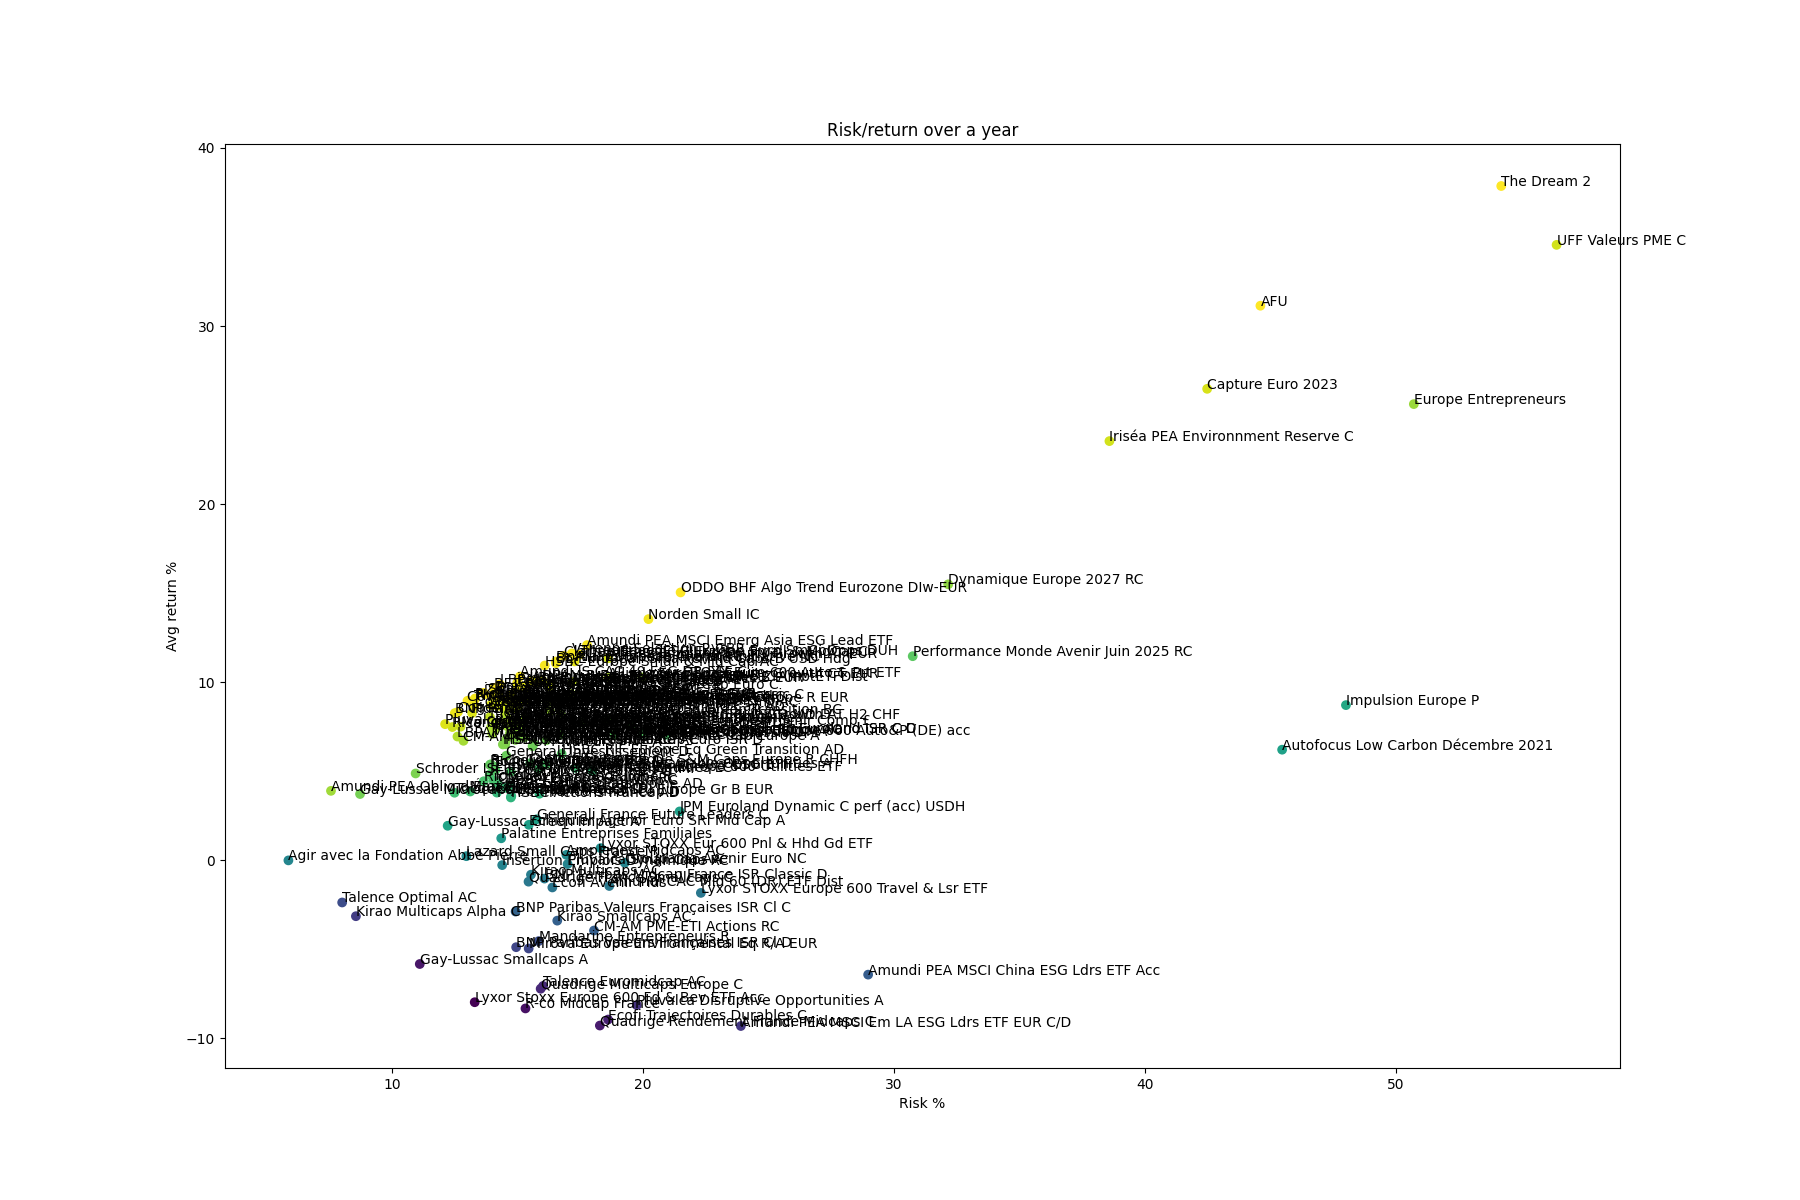
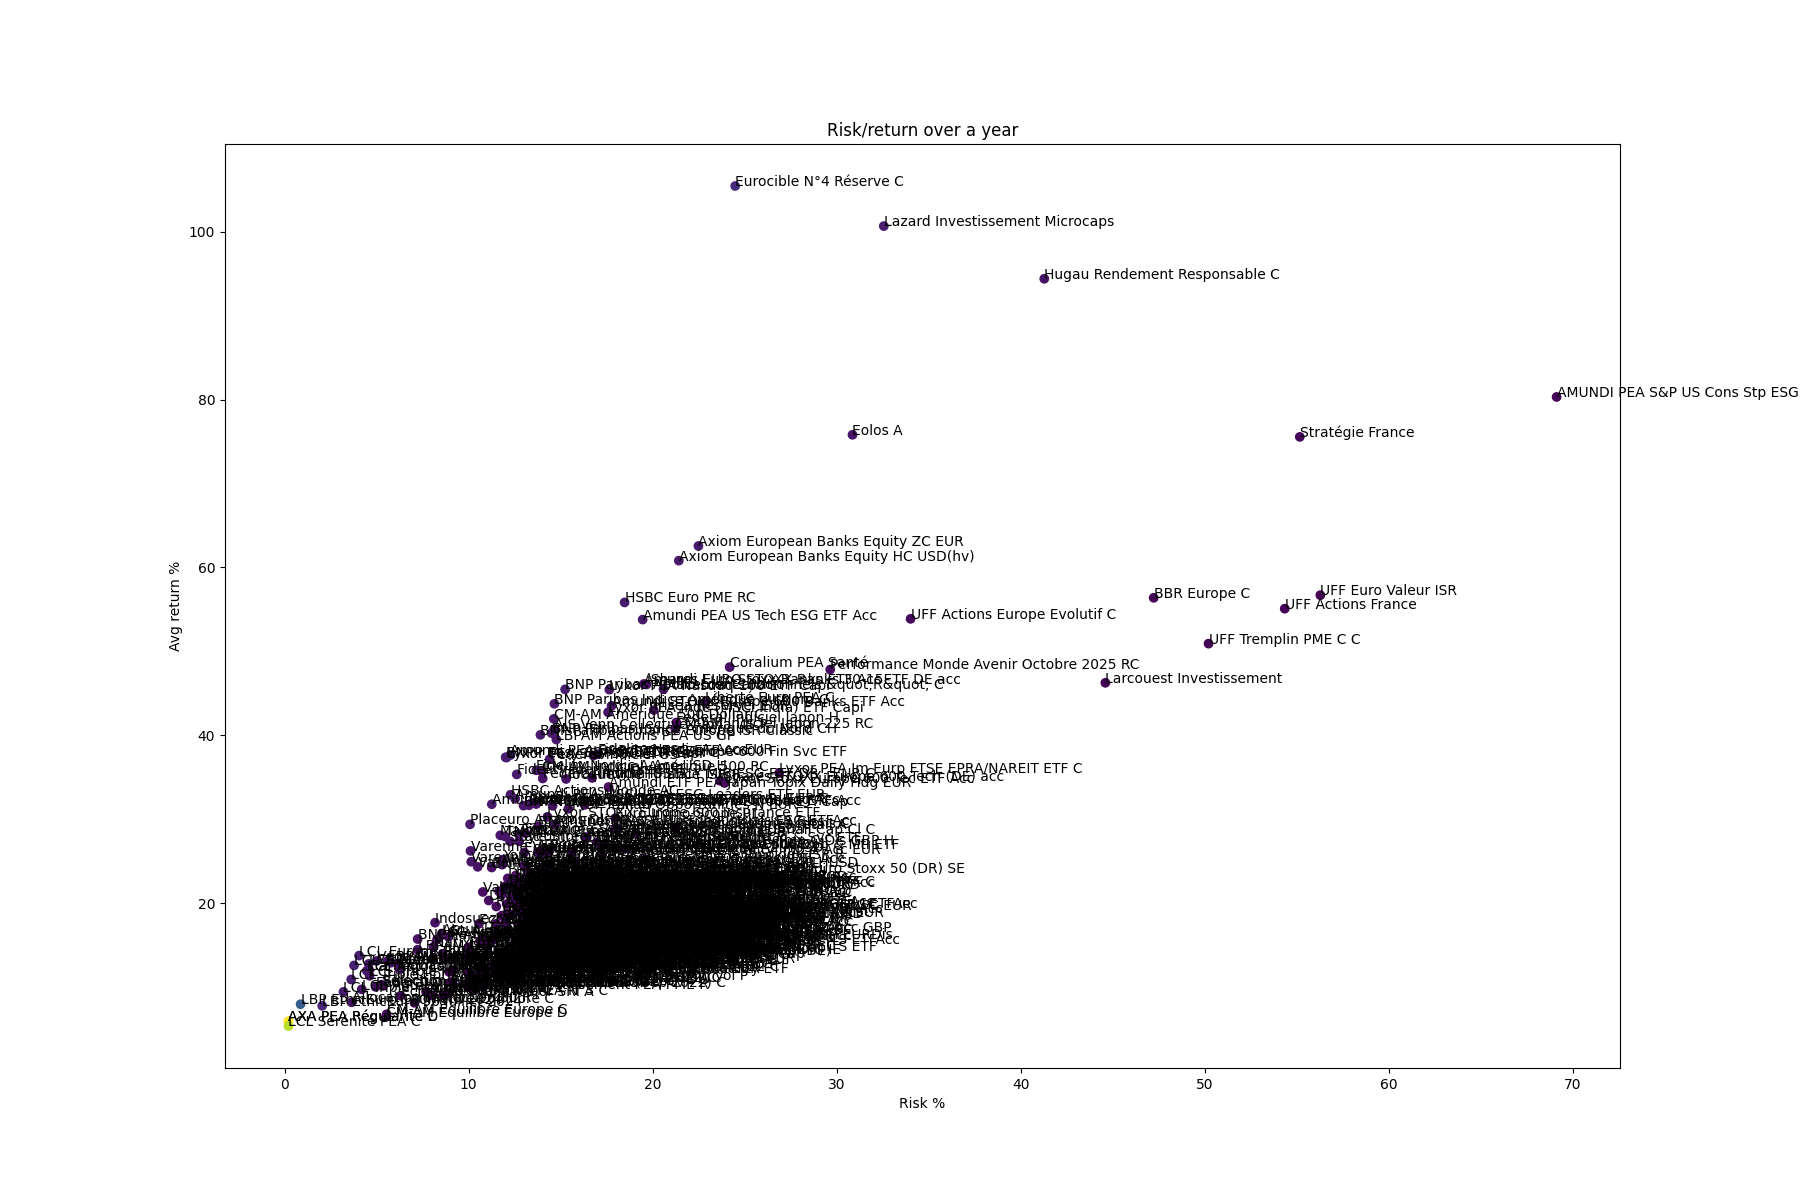
export risk/return to csv for excel analysis

diff --git a/portefeuille/rebalancing.py b/portefeuille/rebalancing.py
@@ -71,6 +71,8 @@ def optimize_composition(dataset, symbols):
     print(f"Sharp ratio: {r/v}")
 
     print(new_compo)
+    if r/v > 0.9:
+        plt.plot(dates, pf)
 
     #plt.bar(symbols, weights)
     #plt.show()
@@ -88,10 +90,16 @@ def brute_force():
 
     for i in range(100):
         print("=====================")
-        sub_set = [symbols[random.randint(0, len(symbols)-1)] for i in range(5)]
-        dataset = build_dataset(sub_set)
-        if len(dataset[list(dataset.keys())[0]]) > 1000:
-            optimize_composition(dataset, sub_set)
+        try:
+            sub_set = [symbols[random.randint(0, len(symbols)-1)] for i in range(5)]
+            dataset = build_dataset(sub_set)
+            if len(dataset[list(dataset.keys())[0]]) > 1000:
+                optimize_composition(dataset, sub_set)
+        except Exception:
+            pass
+    
+    plt.show()
+
 
 def run_benchmark(w: dict[str, float]):
     dataset = build_dataset(list(w.keys()))

diff --git a/analysis/single_risk_return.py b/analysis/single_risk_return.py
@@ -23,8 +23,9 @@ def create_chart(period: int, title: str, out: str):
 
             std = np.std(returns[-period:])*np.sqrt(365)*100
             r = ((np.mean(returns[-period:])-1)*365)*100
+            sharp = r/std
 
-            if std > 100 or std < 0.01 or r/std > 0.7 or r < -10:
+            if std > 100 or std < 0.01 or sharp < 0.9 or r < -10:
                 continue
 
             one_year_return.append(r)
